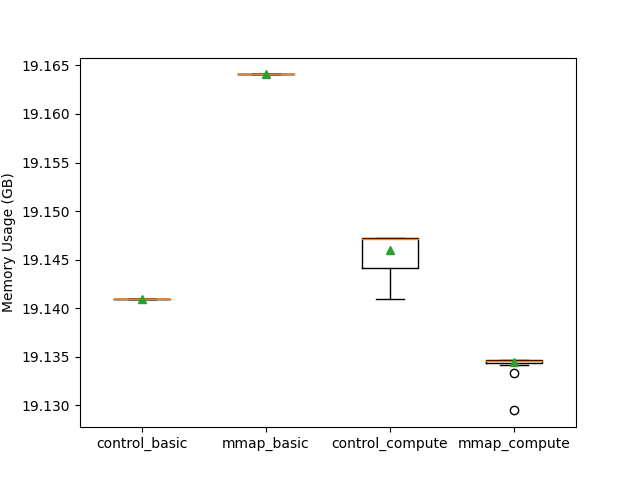
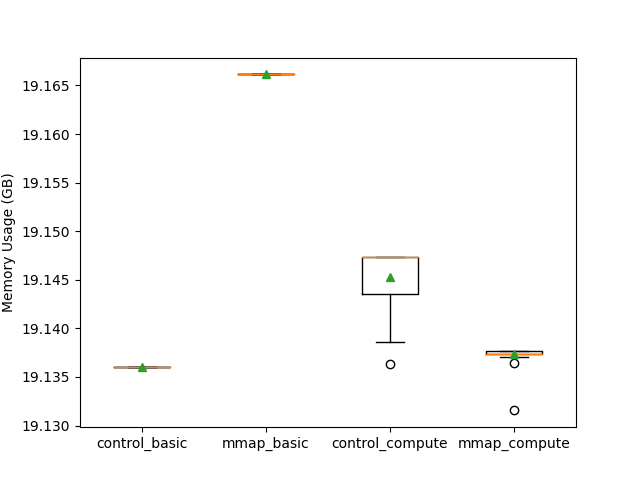
timing changes

diff --git a/colbert/tests/mmap_test.py b/colbert/tests/mmap_test.py
@@ -75,7 +75,7 @@ def read_into_buffer(mmap, filepath, coalesce, q):
     proc = psutil.Process(os.getpid())
 
     # read time, average copy time, average calculation time, total time
-    timing = { 'read_time': 0, 'average_copy_time': 0, 'average_calc_time': 0, 'total_time': 0 }
+    timing = { 'read_time': 0, 'average_calc_time': 0, 'total_time': 0 }
 
     # read from residual files into mem_buf
     start_time = time.time()
@@ -102,7 +102,7 @@ def read_into_buffer(mmap, filepath, coalesce, q):
             res_size = TensorSizes[res]
             start = random.randrange(res_size - TEST_CHUNK_SIZE)
             end = start + TEST_CHUNK_SIZE
-            new_buf = mem_buf[res][start:end] 
+            new_buf = mem_buf[res][start:end]
         else:
             start = random.randrange(0, RES_SUM - TEST_CHUNK_SIZE)
             end = start + TEST_CHUNK_SIZE
@@ -114,7 +114,6 @@ def read_into_buffer(mmap, filepath, coalesce, q):
         computation = torch.add(new_buf, TENSOR_RAND)
         ts2 = time.time()
 
-        copy_avg += ts1 - rand_time_start
         calc_avg += ts2 - rand_time_start
 
         results_buf.append(mem - base_mem)
@@ -124,16 +123,14 @@ def read_into_buffer(mmap, filepath, coalesce, q):
 
     end_time = time.time()
 
-    copy_avg = copy_avg/NUM_COMPUTE_CYCLES
     calc_avg = calc_avg/NUM_COMPUTE_CYCLES
 
     del mem_buf
     gc.collect()
 
     timing['read_time'] = fetch_time - start_time
-    timing['average_copy_time'] = copy_avg
     timing['average_calc_time'] = calc_avg
-    timing['total_time'] = end_time - start_time
+    timing['total_time'] = end_time - fetch_time
 
     q.put(results_buf)
     q.put(timing)
@@ -206,8 +203,8 @@ def print_timing(test_iter):
     print("\nTiming Summary")
     print("--------------\n")
 
-    control = { 'read_time': 0, 'average_copy_time': 0, 'average_calc_time': 0, 'total_time': 0 }
-    mmap = { 'read_time': 0, 'average_copy_time': 0, 'average_calc_time': 0, 'total_time': 0 }
+    control = { 'read_time': 0, 'average_calc_time': 0, 'total_time': 0 }
+    mmap = { 'read_time': 0, 'average_calc_time': 0, 'total_time': 0 }
 
     for i in range(test_iter):
         control_iter = control_timing[i]
@@ -216,6 +213,7 @@ def print_timing(test_iter):
 
     for k in control:
         control[k] /= test_iter
+        control[k] *= 1000
 
     for i in range(test_iter):
         mmap_iter = mmap_timing[i]
@@ -224,13 +222,13 @@ def print_timing(test_iter):
 
     for k in mmap:
         mmap[k] /= test_iter
+        mmap[k] *= 1000
 
-    print("  Timing   |  Control  |  MMap")
-    print("-----------|-----------|--------------")
-    print(" read time | {:.5f}  |  {:.5f}".format(control['read_time'], mmap['read_time']))
-    print(" copy time | {:.5f}  |  {:.5f}".format(control['average_copy_time'], mmap['average_copy_time']))
-    print("  compute  | {:.5f}  |  {:.5f}".format(control['average_calc_time'], mmap['average_calc_time']))
-    print("   total   | {:.5f}  |  {:.5f}".format(control['total_time'], mmap['total_time']))
+    print("  Timing              |  Control (ms)  |  MMap (ms)")
+    print("----------------------|----------------|--------------")
+    print(" initial load         | {:0.0f}          |  {:0.0f}".format(control['read_time'], mmap['read_time']))
+    print(" copy + compute avg   | {:0.2f}          |  {:0.2f}".format(control['average_calc_time'], mmap['average_calc_time']))
+    print(" total copy + compute | {:0.0f}          |  {:0.0f}".format(control['total_time'], mmap['total_time']))
 
 
 def main(args):
